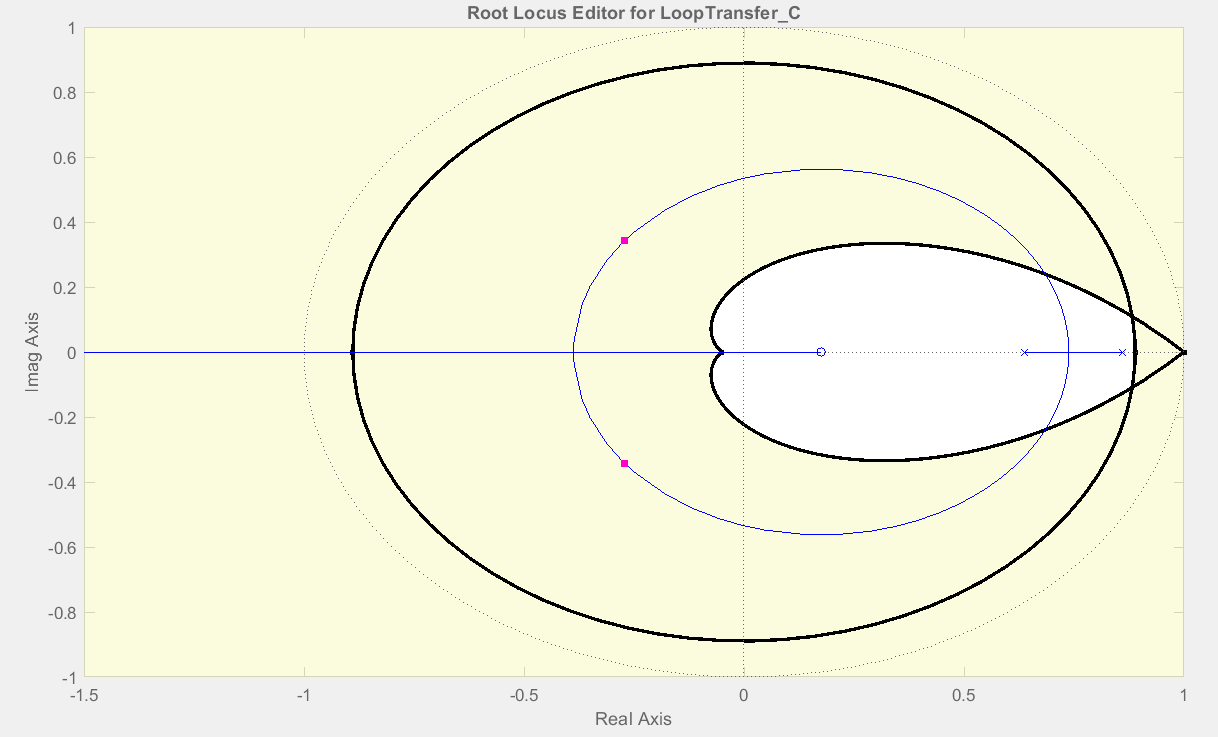
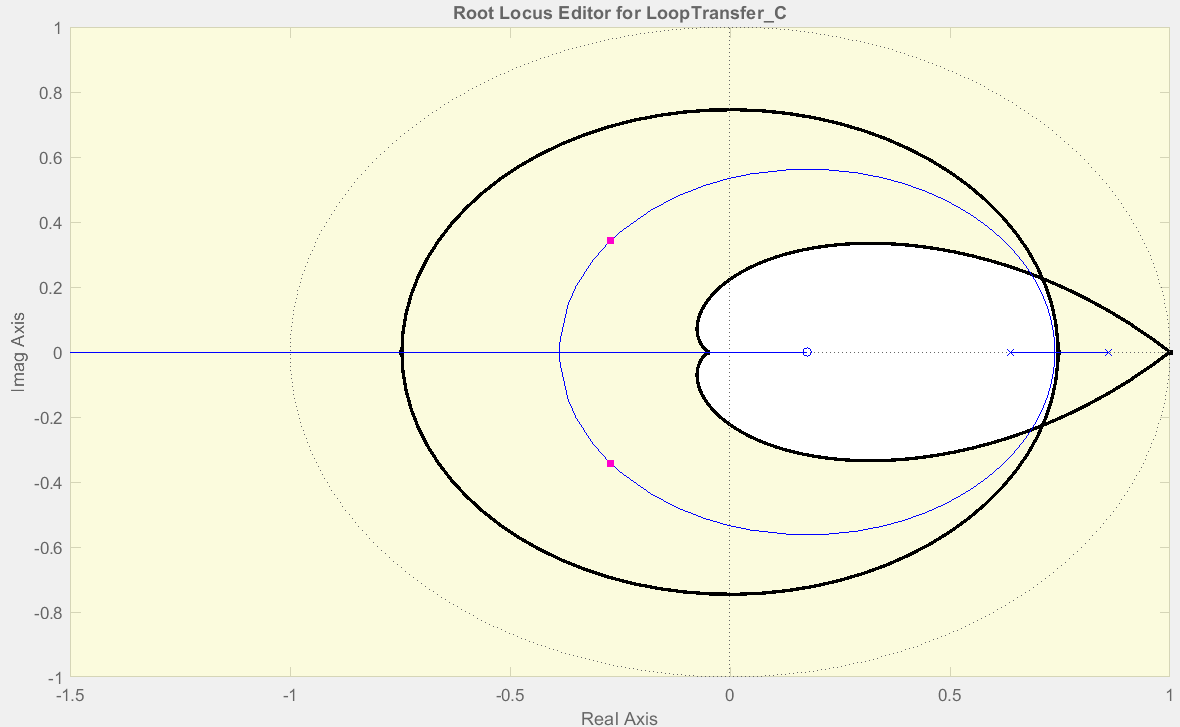
Se reemplazo controlador PI por PD

diff --git a/Tareas_Laboret/Tarea_N2/Scarlatto_Manuel_Tarea_n°2.md b/Tareas_Laboret/Tarea_N2/Scarlatto_Manuel_Tarea_n°2.md
@@ -191,22 +191,26 @@ Gd =  ---------------------
 
 En la respuesta al escalon podemos observar que el sistema es estable, pero se observa que el sobrepaso es del 110 % y el requerido es del 5 %. En cuanto al LR se puede observar que el sistema se encuentra dentro del circulo unitario. 
 
-Se diseña entonces un controlador PI, dado que el sistema no poseé un polo en 1, por lo tanto se fija un polo en 1 y se agrega un cero ajustable. Luego se genera un controlador en adelanto y se compararan los resultados.
+Por otro lado, el análisis del Lugar Geométrico de las Raíces (LR) muestra que todos los polos del sistema en lazo cerrado se encuentran dentro del círculo unitario, lo que confirma la estabilidad del sistema en tiempo discreto.
+
+Con el fin de mejorar la respuesta transitoria, se diseña un controlador PD discreto. Este tipo de compensador permite modificar la ubicación de los polos dominantes mediante la introducción de un cero, sin alterar el tipo del sistema. El controlador se ajusta para que el LR atraviese la región deseada del plano-z, de acuerdo con las especificaciones de sobrepaso y tiempo de establecimiento.
+
+Posteriormente, se analizará un segundo diseño que incluya acción integradora (como un PID o un controlador por adelanto con integración) para garantizar error nulo en régimen, y se compararán los resultados obtenidos con el controlador PD.
 
 Entonces, siguiendo los requerimientos planteados en un comienzo:
 
-$$\xi = 0.6901$$
-$$t_R(2 \%) = 5$$
+$$ \xi = 0.6901 $$
+$$ t_R(2 \%) = 2 $$
 
 ![Lugar_de_Raices_Xi_Tr](<Imagenes Tarea 2/Lugar_de_Raices_Xi_Tr.png>)
 
-### Controlador PI
+### Controlador PD
 
-Con los parametros ya fijados, se agrega el polo en 1 y el cero ajustable, se ajusta el cero para que la ganacia pueda tomar el valor que pase a traves de la intersección. Luego se ajusta la ganancia al punto exacto de la intersección.
+Con los parametros ya fijados, se agrega el polo en 0 y el cero ajustable, se ajusta el cero para que la ganacia pueda tomar el valor que pase a traves de la intersección. Luego se ajusta la ganancia al punto exacto de la intersección.
 
-El controlador PI tiene la forma:
+El controlador PD tiene la forma:
 
-$$C(z)=K*\frac{z-c}{z-1}; K=K_p+K_i; c=\frac{K_p}{K_p+K_i}$$ 
+$$C(z)=K*\frac{z-c}{z}; K=K_p+K_d; c=\frac{K_d}{K_p+K_d}$$ 
 
 ![Compensador](<Imagenes Tarea 2/Compensador.png>)
 
@@ -214,14 +218,14 @@ $$C(z)=K*\frac{z-c}{z-1}; K=K_p+K_i; c=\frac{K_p}{K_p+K_i}$$
 
 ![Respuesta_al_Escalon_PI](<Imagenes Tarea 2/Respuesta_al_Escalon_PI.png>)
 
-Como podemos observar, con el cero ajustable se cancelo el polo en 0.74 y luego se ajusto la ganancia a la altura de las intersecciones. Podemos ver a su vez, como la respuesta al escalon mejor y se amolda a los parametros solicitados.
+Como se puede observar, se ha incorporado un controlador PD discreto con un cero ubicado en 𝑧 = − 0.396, lo que permite modificar la forma del lugar geométrico de las raíces. De esta manera, se logró aproximar los polos dominantes del sistema en lazo cerrado a la región deseada del plano-z, cumpliendo con las especificaciones dinámicas establecidas.
 
-Ahora se exporta el compensador C y se contruye el sistema a lazo cerrado.
+Posteriormente, se ajustó la ganancia del sistema hasta que los polos se ubicaron en la intersección con la curva de diseño. Como resultado, la respuesta al escalón mejora considerablemente, mostrando un sobrepaso y un tiempo de establecimiento acordes con los valores requeridos.
 
 ```
-     0.022014 (z-0.795)
-C =  ------------------
-          (z-1)
+    0.037654 (z+0.396)
+C = ------------------
+            z
 ```
 
 - Código de Matlab
@@ -237,10 +241,10 @@ step(F) % respuesta al escalon
 
 - Función a Lazo Cerrado
 
-```
-      0.04492 (z-0.795) (z-0.1754)
-F =  --------------------------------
-     (z-0.683) (z^2 - 1.77z + 0.7944)
+``` 
+      0.076831 (z+0.396) (z-0.1754)
+F = ------------------------------------
+    (z-0.009667) (z^2 - 1.412z + 0.5521)
 ```
 
 - Respuesta al escalon - Sistema a Lazo Cerrado
@@ -254,9 +258,9 @@ pole(F)
 
 ans =
 
-   0.6830 + 0.0000i
-   0.8852 + 0.1038i
-   0.8852 - 0.1038i
+   0.0097 + 0.0000i
+   0.7059 + 0.2319i
+   0.7059 - 0.2319i
 ```
 
 ```
@@ -264,45 +268,43 @@ zero(F)
 
 ans =
 
-    0.7950
-    0.1754
+    -0.3960
+     0.1754
 ```
 
 ![Pole_Zero_Map_LC](<Imagenes Tarea 2/Pole_Zero_Map_LC.png>)
 
-Recordando la función de transferencia del controlador PI:
+Recordando la función de transferencia del controlador PD:
 
-$$C(z)=K*\frac{z-c}{z-1}; K=K_p+K_i; c=\frac{K_p}{K_p+K_i}$$ 
+$$C(z)=K*\frac{z-c}{z}; K=K_p+K_d; c=\frac{K_d}{K_p+K_d}$$
 
 Tenemos que 
 
-$$C(z)=K*\frac{z-c}{z-1}=0.022014*\frac{z-0.795}{z-1}$$
+$$C(z)=K*\frac{z-c}{z}=0.037654*\frac{z+0.396}{z}$$
 
-Donde, 
+Desarrollando la expresión y aplicando las relaciones estándar del controlador PD:
 
-$$K=K_p+K_i=0.022014$$ 
+$$
+K_d = b_1 \cdot T, \quad K_p = b_0 + \frac{K_d}{T}
+$$
 
-y 
+se obtuvieron:
 
-$$c=\frac{K_p}{K_p+K_i}=0.795$$
+$$
+K_p = 0.052565, \quad K_d = 0.005648
+$$
 
-Teniendo dos ecuaciones con dos incognitas, resolviendo las mismas, se obtienen los valores de $K_p$ y $K_i$.
-
-$$K_p=c*K=0.795*0.022014=0.0175$$
-
-$$K_i=K-K_p=0.022014-0.0175=0.0045$$
-
-$$K_p=0.0175; K_i=0.0045$$
+Ambos valores son positivos y válidos para una implementación física del controlador PD.
 
 - Simulación en Simulink
 
 Una vez obtenidos los valores del controlador, pasamos a simular el sistema en Simulink, a partir del archivo 'PID_digital_tarea.slx'.
 
-![alt text](<Imagenes Tarea 2/Simulink_Diagrama.png>)
+![Simulink_Diagrama](<Imagenes Tarea 2/Simulink_Diagrama.png>)
 
 Una vez abierto el archivo, ponemos en cero el $K_d$ ya que no es un controlador derivativo, y cargamos los valores previamente calculados a $K_p$ y $K_i$:
 
-![alt text](<Imagenes Tarea 2/Parametros_K.png>)
+![Parametros_K](<Imagenes Tarea 2/Parametros_K.png>)
 
 Luego configuramos la funcion de transferencia:
 
@@ -312,20 +314,24 @@ Se configura el Step y los ZOH.
 
 Al simular el sistema, obtenemos los siguientes resultados:
 
-- Salida del Sistema con Controlador PI
+- Salida del Sistema con Controlador PD
 
-![alt text](<Imagenes Tarea 2/Simulink_Out_PI.png>)
+![Simulink_Out_PD](<Imagenes Tarea 2/Simulink_Out_PD.png>)
 
 - Gráfica del Error
 
-![alt text](<Imagenes Tarea 2/Simulink_Out_Error_PI.png>)
+![Simulink_Out_Error_PD](<Imagenes Tarea 2/Simulink_Out_Error_PD.png>)
 
-- Gráfica de la acción integradora
+- Gráfica de la acción derivativa
 
-![alt text](<Imagenes Tarea 2/Simulink_Out_Integrador_PI.png>)
+![Simulink_Out_Derivador_PD](<Imagenes Tarea 2/Simulink_Out_Derivador_PD.png>)
 
 - Gráfica de la acción proporcional
 
-![alt text](<Imagenes Tarea 2/Simulink_Out_Prop_PI.png>)
+![Simulink_Out_Prop_PD](<Imagenes Tarea 2/Simulink_Out_Prop_PD.png>)
+
+### Conclusión del controlador PD
+
+El controlador PD diseñado logró mejorar significativamente la respuesta del sistema, reduciendo el sobrepaso y acelerando el tiempo de establecimiento. La salida presenta un comportamiento estable con bajo sobrepaso, y el error se reduce rápidamente, manteniéndose cercano a cero en régimen permanente. Esto confirma que el controlador cumple con los requisitos dinámicos planteados.
 
 ---
